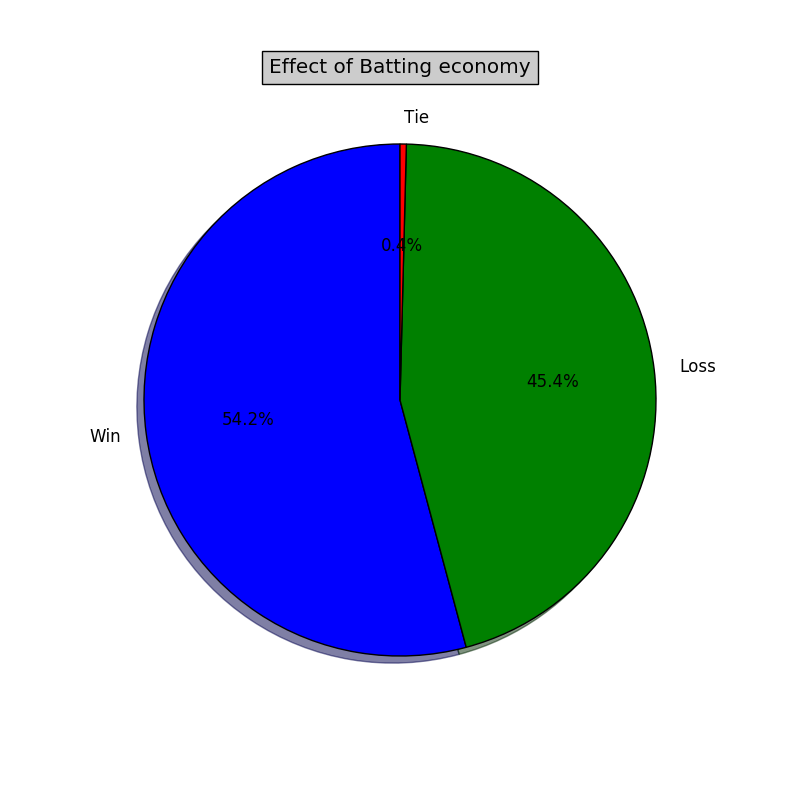
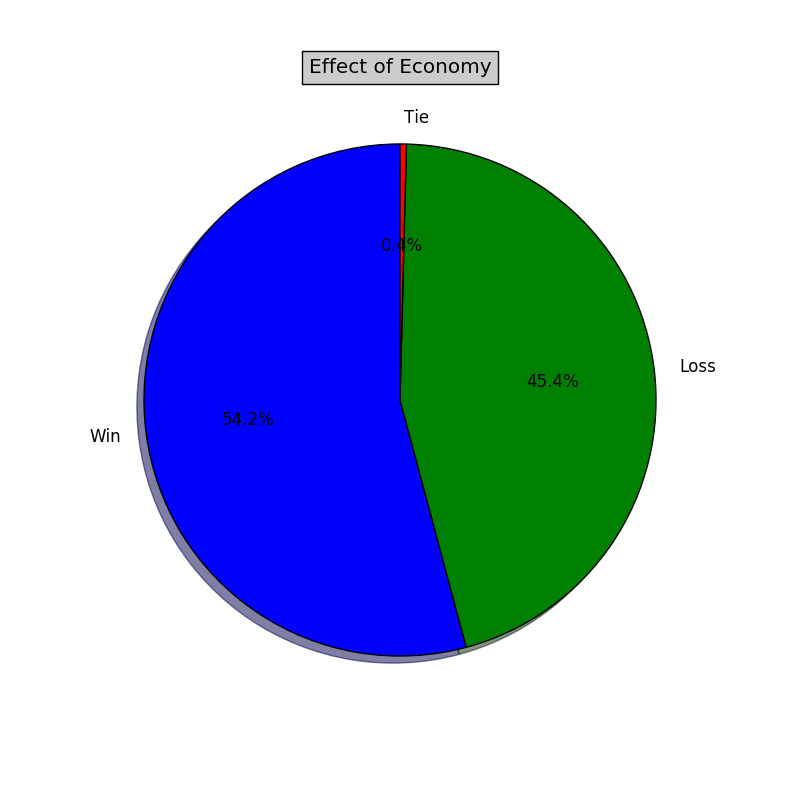
Title of Economy Effect graph is changed

Changed region(s): [[0.3125, 0.0625, 0.6875, 0.125]]

diff --git a/EconomyEffect.py b/EconomyEffect.py
@@ -102,7 +102,7 @@ pie(fracs, explode=explode, labels=labels,
                 # everything is rotated counter-clockwise by 90 degrees,
                 # so the plotting starts on the positive y-axis.
 
-title('Effect of Batting economy', bbox={'facecolor':'0.8', 'pad':5})
+title('Effect of Economy', bbox={'facecolor':'0.8', 'pad':5})
 
 show()
 
